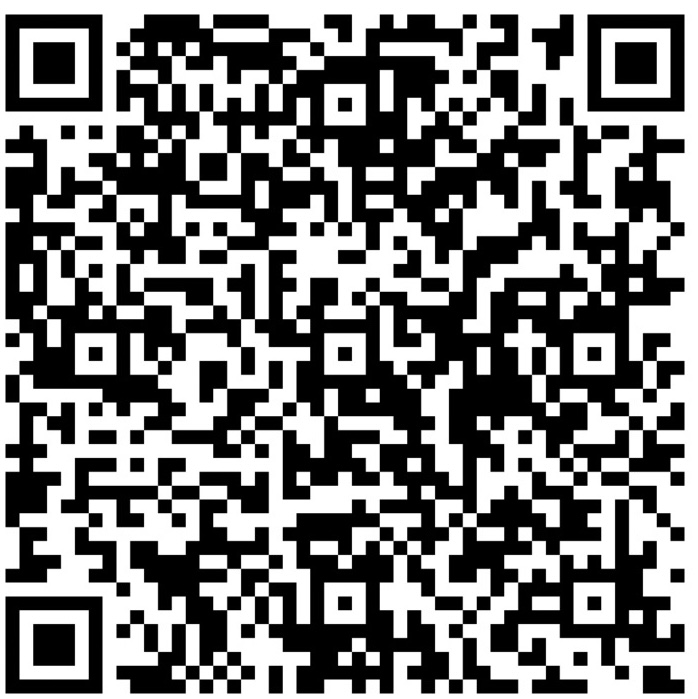
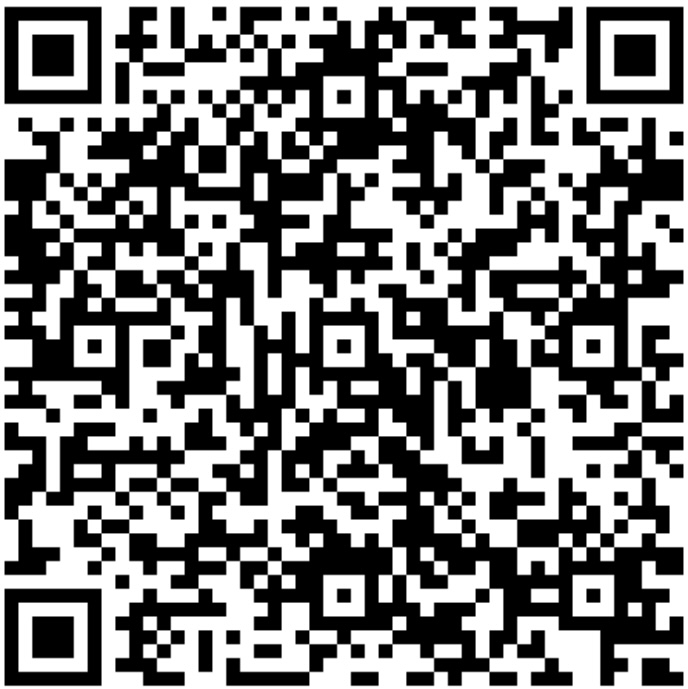
国际化

diff --git a/privacy_en.html b/privacy_en.html
@@ -1,0 +1,69 @@
+<!DOCTYPE html>
+<html lang="en">
+<head>
+    <meta charset="UTF-8">
+    <meta name="viewport" content="width=device-width, initial-scale=1.0">
+    <title>Privacy Policy</title>
+    <style>
+        body {
+            font-family: Arial, sans-serif;
+            line-height: 1.6;
+            margin: 5px;
+            padding: 5px;
+            background-color: #f9f9f9;
+        }
+        h1, h2, h3 {
+            color: #333;
+        }
+        p {
+            margin-bottom: 10px;
+        }
+    </style>
+</head>
+<body>
+    <h2>Privacy Policy</h2>
+    <p>Thank you for using our Frame Genie app (hereinafter referred to as "the app"). We highly value your privacy and personal information protection. Please read the following privacy policy carefully to understand how we collect, use, and protect your information.</p>
+
+    <h3>1. Information Collection</h3>
+    <p>The app collects your information only in the following cases:</p>
+    <ul>
+        <li><strong>Access to Photos</strong>: When you choose to read photos from the album for editing, the app needs access to your album.</li>
+        <li><strong>Save Photos</strong>: When you save the edited photos to the album, the app needs write permission.</li>
+    </ul>
+
+    <h3>2. Information Use</h3>
+    <p>The information we collect is used only for the following purposes:</p>
+    <ul>
+        <li><strong>Read Photos</strong>: Allow you to select photos from the album for editing.</li>
+        <li><strong>Save Photos</strong>: Save your edited photos to the album.</li>
+    </ul>
+
+    <h3>3. Information Sharing</h3>
+    <p>We do not share your personal information with any third parties. All information is processed only on your device and is not uploaded to our servers or any external services.</p>
+
+    <h3>4. Information Security</h3>
+    <p>We take reasonable technical and organizational measures to protect your personal information from unauthorized access, use, or disclosure. These measures include but are not limited to:</p>
+    <ul>
+        <li><strong>Data Encryption</strong>: Encrypting data during transmission.</li>
+        <li><strong>Access Control</strong>: Restricting access to information to only those who need it.</li>
+    </ul>
+
+    <h3>5. User Rights</h3>
+    <p>You have the right to revoke the app's access to the album at any time. You can do this through your device's settings:</p>
+    <ul>
+        <li><strong>Revoke Read Permission</strong>: Go to "Settings" > "Privacy" > "Photos", select the app and set it to "Deny".</li>
+        <li><strong>Revoke Write Permission</strong>: Go to "Settings" > "Privacy" > "Photos", select the app and set it to "Deny".</li>
+    </ul>
+
+    <h3>6. Changes to the Privacy Policy</h3>
+    <p>We may update this privacy policy from time to time. Any changes will be posted on this page with an updated date. We recommend that you review this privacy policy regularly to stay informed about our information protection measures.</p>
+
+    <h3>7. Contact Us</h3>
+    <p>If you have any questions or suggestions about this privacy policy, please contact us through the following methods:</p>
+    <ul>
+        <li><strong>Email</strong>: BorderSprite2024@163.com</li>
+    </ul>
+
+    <p><strong>Updated Date</strong>: August 28, 2024</p>
+</body>
+</html>

diff --git a/qa_en.html b/qa_en.html
@@ -1,0 +1,62 @@
+<!DOCTYPE html>
+<html lang="en">
+<head>
+    <meta charset="UTF-8">
+    <meta name="viewport" content="width=device-width, initial-scale=1.0">
+    <title>Border Sprite App FAQ</title>
+    <style>
+        body {
+            font-family: Arial, sans-serif;
+            background-color: #F9F9F9;
+            color: #333;
+            margin: 0;
+            padding: 20px;
+        }
+        .container {
+            max-width: 800px;
+            margin: 0 auto;
+        }
+        h1 {
+            color: #ff6347;
+            font-size: 1.5em; /* Reduced by one size */
+            text-align: center;
+        }
+        h2 {
+            color: #ff6347;
+            font-size: 1.2em; /* Reduced by one size */
+            margin-top: 20px;
+        }
+        p {
+            font-size: 1em;
+            line-height: 1.6;
+        }
+        ul, ol {
+            padding-left: 20px;
+        }
+    </style>
+</head>
+<body>
+    <div class="container">
+        
+        <h2>1. Why can't I read the photo parameters?</h2>
+        <ul>
+            <li>The photo itself must display the shooting parameters in the album, otherwise the parameters are lost.</li>
+            <li>Most third-party image editing software will lose the shooting parameters after editing the image. Professional software like Lightroom and Photoshop will not lose the parameters when exporting images.</li>
+            <li>Images transferred via social software like WeChat will also lose the shooting parameters.</li>
+        </ul>
+        
+        <h2>2. Slow photo saving time</h2>
+        <p><strong>Possible reasons:</strong></p>
+        <ul>
+            <li>Due to the need to synthesize a blurred background and the original image for the blurred background template, if the photo resolution is too high, the saving time will be relatively slow. It is recommended to lower the image quality in the settings.</li>
+        </ul>
+        
+        <h2>3. Tips for use</h2>
+        <ul>
+            <li><strong>Border selection:</strong> Try different styles of borders and use various tools in the toolbar to edit the image to find the best effect for the photo.</li>
+            <li><strong>Filter tools:</strong> The filters built into the app are carefully selected, so it is recommended to try different filter styles.</li>
+            <li><strong>Blur templates:</strong> The degree of background blur in the blur templates can be customized, and the position of the image and shooting parameters can be freely moved.</li>
+        </ul>
+    </div>
+</body>
+</html>

diff --git a/red_en.html b/red_en.html
@@ -1,0 +1,79 @@
+<!DOCTYPE html>
+<html lang="en">
+<head>
+    <meta charset="UTF-8">
+    <meta name="viewport" content="width=device-width, initial-scale=1.0">
+    <title>Frame Genie App Event</title>
+    <style>
+        body {
+            font-family: Arial, sans-serif;
+            background-color: #F9F9F9;
+            color: #333;
+            margin: 0;
+            padding: 0;
+            background-size: cover;
+        }
+
+        h1 {
+            color: #ff6347;
+            font-size: 1.5em;
+            text-align: center;
+        }
+        .highlight {
+            color: #ff6347;
+            font-weight: bold;
+        }
+        .cta {
+            margin-top: 20px;
+            padding: 10px 20px;
+            background-color: #ff6347;
+            color: #fff;
+            text-align: center;
+            text-decoration: none;
+            display: inline-block;
+            border-radius: 5px;
+            font-size: 1em;
+        }
+        .cta:hover {
+            background-color: #ff4500;
+        }
+        ul, ol {
+            padding-left: 20px;
+        }
+        .xiaohongshu {
+            color: #ff4500;
+            font-weight: bold;
+        }
+        .container {
+            max-width: 500px;
+            margin: 20px auto; /* Center horizontally */
+            padding: 15px;
+        }
+        .cta-container {
+            text-align: center; /* Center horizontally */
+        }
+    </style>
+</head>
+<body>
+    <div class="container">
+        <h1>🌟 Frame Genie App is Live! 🌟</h1>
+        <p>Do you want to make your photos more creative and unique? Try our <span class="highlight">Frame Genie App</span> now! 🎨✨</p>
+        
+        <h2>📸 Key Features:</h2>
+        <ul>
+            <li>Various beautiful frames to choose from</li>
+            <li>Easy-to-use editing tools</li>
+        </ul>
+        
+        <h2>📢 How to Participate:</h2>
+        <ol>
+            <li>Download and use the Frame Genie App</li>
+            <li>Post your creative works on <span class="xiaohongshu">Xiaohongshu</span></li>
+            <li>@蓝胖纸不忧郁 and add the hashtag #FrameGenie</li>
+        </ol>
+        
+        <h2>🎉 Rewards:</h2>
+        <p>We will randomly select lucky users to receive exquisite gifts! 🎁</p>
+    </div>
+</body>
+</html>

diff --git a/communication_en.html b/communication_en.html
@@ -1,0 +1,38 @@
+<!DOCTYPE html>
+<html lang="en">
+<head>
+    <meta charset="UTF-8">
+    <meta name="viewport" content="width=device-width, initial-scale=1.0">
+    <title>Photography Group</title>
+    <style>
+        body {
+            background-color: #91D6EF; /* Light blue background */
+            color: white;
+            font-family: Arial, sans-serif;
+            text-align: center;
+            padding: 20px; /* Adjusted for mobile-friendly padding */
+            margin: 0;
+        }
+        .container {
+            max-width: 100%; /* Fit to mobile screen width */
+            padding: 20px;
+        }
+        img {
+            max-width: 100%;
+            height: auto;
+        }
+        .qrcode {
+            width: 250px; /* Set QR code image width */
+            height: 250px; /* Set QR code image height */
+            margin: 0 auto; /* Center the image */
+        }
+    </style>
+</head>
+<body>
+    <div class="container">
+        <h1>📸 Join the Photography Group!</h1>
+        <p>Here, you can share your photography works, give feedback, and meet more photography enthusiasts. Whether you are a beginner or a professional photographer, we welcome you to join us!</p>
+        <img src="./photography.jpg" alt="QR Code" class="qrcode">
+    </div>
+</body>
+</html>

diff --git a/communication.html b/communication.html
@@ -6,7 +6,7 @@
     <title>摄影交流群</title>
     <style>
         body {
-            background-color: #F9F9F9; /* 浅蓝色背景 */
+            background-color: #91D6EF; /* 浅蓝色背景 */
             color: white;
             font-family: Arial, sans-serif;
             text-align: center;
